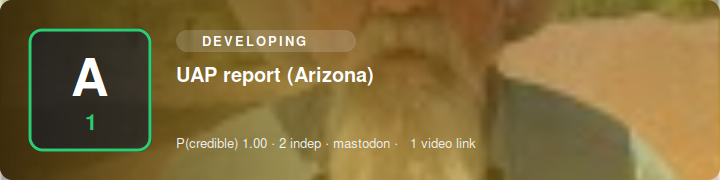
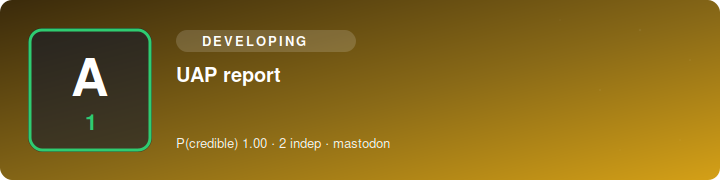
SITREP 2026-08-09 23:10 UTC

diff --git a/index.html b/index.html
@@ -1,1 +1,1 @@
-<!doctype html><meta charset=utf-8><title>Science Bob News — SITREP</title><style>body{font:16px/1.5 system-ui,sans-serif;max-width:760px;margin:2rem auto;padding:0 1rem;color:#111}h1{font-size:1.5rem}h2{margin-top:1.6rem;border-bottom:1px solid #ddd;padding-bottom:.2rem}ul{list-style:none;padding:0}li{margin:.9rem 0}.hl{font-weight:600}.meta{color:#555;font-size:.85rem}.src{font-size:.85rem}.vid{font-size:.85rem;margin-top:.15rem}.card{display:block;max-width:100%;height:auto;border-radius:8px;margin:.4rem 0 .5rem}.upd{background:#fde68a;padding:0 .3rem;border-radius:.2rem;font-size:.75rem}.sub{color:#777;font-size:.85rem}footer{color:#777;font-size:.8rem;margin-top:2rem;border-top:1px solid #ddd;padding-top:.6rem}</style><h1>🛸 Science Bob News</h1><div class="sub">UAP / UFO / USO SITREP · updated 2026-08-09 23:00 UTC · automated</div><h2>Corroborated</h2><ul><li><i>No corroborated reports.</i></li></ul><h2>Developing / unconfirmed</h2><ul><li><img class="card" src="https://n4hy.github.io/sciencebobnews-site/card_d_1.svg" alt="" width="720" height="180"><div class="hl">UAP report</div><div class="meta">reliability <b>A1</b> · P(credible)=1.0 · 2 independent source(s) · mastodon</div><div class="src"><a href="https://mastodon.social/@top_news/117061418590008764">@top_news</a> · <a href="https://beige.party/@TresFluke/117056684031764409">@TresFluke@beige.party</a></div></li><li><img class="card" src="https://n4hy.github.io/sciencebobnews-site/card_d_2.svg" alt="" width="720" height="180"><div class="hl">UAP report (Arizona)</div><div class="meta">reliability <b>A1</b> · P(credible)=1.0 · 2 independent source(s) · mastodon</div><div class="src"><a href="https://mysterioustimes.co.uk/2026/08/09/the-travis-walton-hoax/">@kdraven@mysterioustimes.co.uk</a> · <a href="https://c.im/@raurquiz/117066708910947794">@raurquiz@c.im</a></div><div class="vid">📹 <a href="https://youtu.be/Bbm9le8oM64?si=u3GVy-fDW4rZMqYw">video</a></div></li><li><img class="card" src="https://n4hy.github.io/sciencebobnews-site/card_d_3.svg" alt="" width="720" height="180"><div class="hl">UAP report (Early)</div><div class="meta">reliability <b>A1</b> · P(credible)=1.0 · 1 independent source(s) · rumble</div><div class="src"><a href="https://www.youtube.com/watch?v=IyTeV6kko5A">@podcast</a></div><div class="vid">📹 <a href="https://www.youtube.com/watch?v=IyTeV6kko5A">video</a></div></li><li><img class="card" src="https://n4hy.github.io/sciencebobnews-site/card_d_4.svg" alt="" width="720" height="180"><div class="hl">UAP report (McMinnville)</div><div class="meta">reliability <b>A1</b> · P(credible)=1.0 · 1 independent source(s) · rumble</div><div class="src"><a href="https://www.youtube.com/watch?v=7OT6uJ0yzVY">@podcast</a></div><div class="vid">📹 <a href="https://www.youtube.com/watch?v=7OT6uJ0yzVY">video</a></div></li><li><img class="card" src="https://n4hy.github.io/sciencebobnews-site/card_d_5.svg" alt="" width="720" height="180"><div class="hl">UAP report (Australia)</div><div class="meta">reliability <b>A1</b> · P(credible)=1.0 · 1 independent source(s) · rumble</div><div class="src"><a href="https://www.youtube.com/watch?v=ZegQhxJrJGo">@podcast</a></div><div class="vid">📹 <a href="https://www.youtube.com/watch?v=ZegQhxJrJGo">video</a></div></li></ul><footer><b>Powered by Science Bob News.</b> Free to use with credit (see LICENSE). Headlines are factual restatements in the engine's own words; click sources for originals. Single-origin reposts collapse to one source; prosaic candidates flagged where offered.</footer>
+<!doctype html><meta charset=utf-8><title>Science Bob News — SITREP</title><style>body{font:16px/1.5 system-ui,sans-serif;max-width:760px;margin:2rem auto;padding:0 1rem;color:#111}h1{font-size:1.5rem}h2{margin-top:1.6rem;border-bottom:1px solid #ddd;padding-bottom:.2rem}ul{list-style:none;padding:0}li{margin:.9rem 0}.hl{font-weight:600}.meta{color:#555;font-size:.85rem}.src{font-size:.85rem}.vid{font-size:.85rem;margin-top:.15rem}.card{display:block;max-width:100%;height:auto;border-radius:8px;margin:.4rem 0 .5rem}.upd{background:#fde68a;padding:0 .3rem;border-radius:.2rem;font-size:.75rem}.sub{color:#777;font-size:.85rem}footer{color:#777;font-size:.8rem;margin-top:2rem;border-top:1px solid #ddd;padding-top:.6rem}</style><h1>🛸 Science Bob News</h1><div class="sub">UAP / UFO / USO SITREP · updated 2026-08-09 23:10 UTC · automated</div><h2>Corroborated</h2><ul><li><i>No corroborated reports.</i></li></ul><h2>Developing / unconfirmed</h2><ul><li><img class="card" src="https://n4hy.github.io/sciencebobnews-site/card_d_1.svg" alt="" width="720" height="180"><div class="hl">UAP report</div><div class="meta">reliability <b>A1</b> · P(credible)=1.0 · 2 independent source(s) · mastodon</div><div class="src"><a href="https://mastodon.social/@top_news/117061418590008764">@top_news</a> · <a href="https://beige.party/@TresFluke/117056684031764409">@TresFluke@beige.party</a></div></li><li><img class="card" src="https://n4hy.github.io/sciencebobnews-site/card_d_2.svg" alt="" width="720" height="180"><div class="hl">UAP report (Arizona)</div><div class="meta">reliability <b>A1</b> · P(credible)=1.0 · 2 independent source(s) · mastodon</div><div class="src"><a href="https://mysterioustimes.co.uk/2026/08/09/the-travis-walton-hoax/">@kdraven@mysterioustimes.co.uk</a> · <a href="https://c.im/@raurquiz/117066708910947794">@raurquiz@c.im</a></div><div class="vid">📹 <a href="https://youtu.be/Bbm9le8oM64?si=u3GVy-fDW4rZMqYw">video</a></div></li><li><img class="card" src="https://n4hy.github.io/sciencebobnews-site/card_d_3.svg" alt="" width="720" height="180"><div class="hl">UAP report (Early)</div><div class="meta">reliability <b>A1</b> · P(credible)=1.0 · 1 independent source(s) · rumble</div><div class="src"><a href="https://www.youtube.com/watch?v=IyTeV6kko5A">@podcast</a></div><div class="vid">📹 <a href="https://www.youtube.com/watch?v=IyTeV6kko5A">video</a></div></li><li><img class="card" src="https://n4hy.github.io/sciencebobnews-site/card_d_4.svg" alt="" width="720" height="180"><div class="hl">UAP report (McMinnville)</div><div class="meta">reliability <b>A1</b> · P(credible)=1.0 · 1 independent source(s) · rumble</div><div class="src"><a href="https://www.youtube.com/watch?v=7OT6uJ0yzVY">@podcast</a></div><div class="vid">📹 <a href="https://www.youtube.com/watch?v=7OT6uJ0yzVY">video</a></div></li><li><img class="card" src="https://n4hy.github.io/sciencebobnews-site/card_d_5.svg" alt="" width="720" height="180"><div class="hl">UAP report (Australia)</div><div class="meta">reliability <b>A1</b> · P(credible)=1.0 · 1 independent source(s) · rumble</div><div class="src"><a href="https://www.youtube.com/watch?v=ZegQhxJrJGo">@podcast</a></div><div class="vid">📹 <a href="https://www.youtube.com/watch?v=ZegQhxJrJGo">video</a></div></li></ul><footer><b>Powered by Science Bob News.</b> Free to use with credit (see LICENSE). Headlines are factual restatements in the engine's own words; click sources for originals. Single-origin reposts collapse to one source; prosaic candidates flagged where offered.</footer>

diff --git a/sitrep.md b/sitrep.md
@@ -1,5 +1,5 @@
 # 🛸 Science Bob News — UAP / UFO / USO SITREP
-*Updated 2026-08-09 23:00 UTC · auto-generated · sources credited & linked · reliability ratings are automated, not editorial*
+*Updated 2026-08-09 23:10 UTC · auto-generated · sources credited & linked · reliability ratings are automated, not editorial*
 
 ## Corroborated
 _No corroborated reports this cycle._
